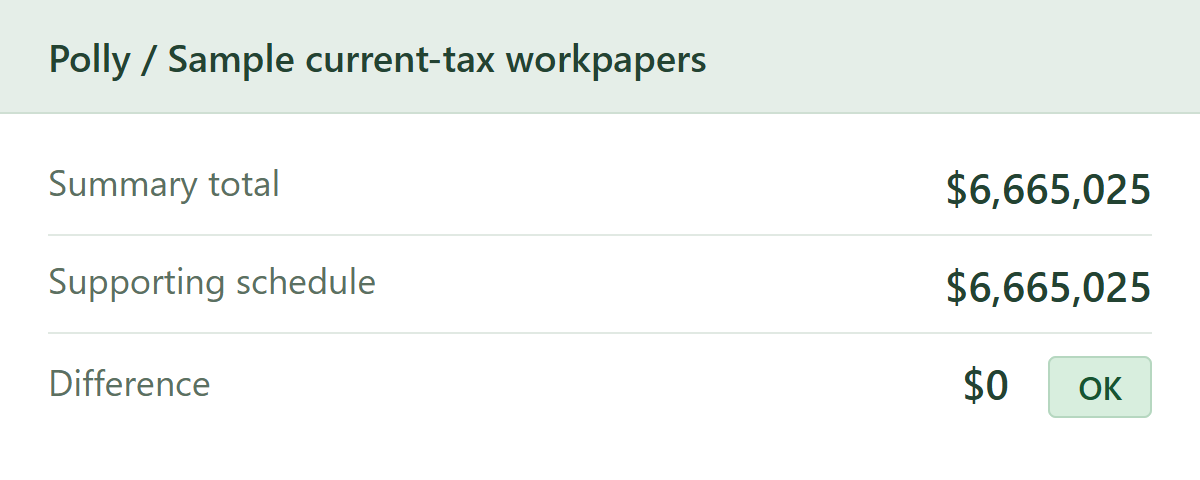
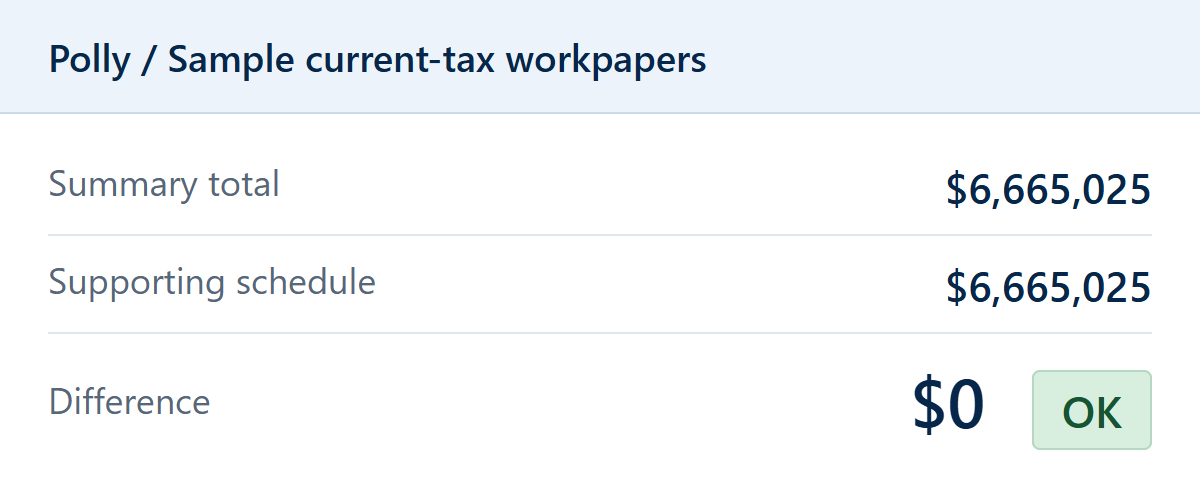
Restore Polaris brand colors and unify homepage typography

diff --git a/design-v2.css b/design-v2.css
@@ -1,8 +1,32 @@
-:root{--ink:#202b2a;--muted:#5f6d6a;--green:#12624f;--line:#dce4df;--soft:#f3f6f4;--blue:#235a7a}*{box-sizing:border-box;letter-spacing:0}html{scroll-behavior:smooth;scroll-padding-top:28px}body{margin:0;color:var(--ink);background:#fff;font-family:'Segoe UI',Arial,sans-serif;font-size:16px;line-height:1.65}h1,h2,h3,h4,p{margin:0 0 18px;overflow-wrap:break-word}h1,h2,h3,h4{line-height:1.2;font-weight:600}h2{font-size:34px}h3{font-size:23px}a{color:inherit;text-underline-offset:5px}button,input,textarea,select{font:inherit}button,a{touch-action:manipulation}a:focus-visible,button:focus-visible,summary:focus-visible{outline:3px solid #c36b48;outline-offset:5px}.wrap{width:100%;max-width:1200px;margin:auto;padding-left:40px;padding-right:40px}.header{height:102px;display:flex;align-items:center;justify-content:space-between;gap:24px}.logo{width:208px;height:auto;display:block}.nav{display:flex;align-items:center;gap:30px;font-size:14px}.nav a{text-decoration:none}.nav a:not(.button):hover{color:var(--green)}.button{display:inline-flex;align-items:center;justify-content:center;gap:14px;min-height:48px;padding:11px 25px;border-radius:999px;border:1px solid var(--green);background:var(--green);color:white;font-size:15px;font-weight:600;text-decoration:none;cursor:pointer;transition:background .18s,box-shadow .18s}.button:hover{background:#0b4d3d;box-shadow:0 4px 15px #174e3820}.button::after{content:'\2192';font-size:19px;font-weight:400;line-height:1}.button.secondary{background:transparent;border-color:transparent;color:var(--ink);padding-left:10px;padding-right:10px}.button.secondary:hover{box-shadow:none;color:var(--green)}.actions{display:flex;align-items:center;gap:22px;flex-wrap:wrap}.eyebrow{font-size:12px;font-weight:700;text-transform:uppercase;color:var(--green);margin-bottom:18px}.hero{max-width:none;padding:35px 24px 0;text-align:center;background:#f7f9f7;border-top:1px solid #edf0ed;overflow:hidden}.hero h1{font-size:62px;font-weight:600;margin-bottom:12px}.hero h1 span{font-size:22px;display:inline-block;font-weight:400;color:var(--muted);vertical-align:middle;margin-left:8px}.hero .tagline{font-family:Georgia,'Times New Roman',serif;font-size:39px;font-weight:400;line-height:1.2;margin-bottom:20px}.hero .tagline em{color:var(--green);font-weight:400}.hero .intro{font-size:17px;color:var(--muted);max-width:690px;margin:0 auto 24px;line-height:1.65}.hero .actions{justify-content:center}.hero .sub{font-size:12px;color:var(--muted);margin:14px 0 27px}.hero-product{max-width:1040px;margin:0 auto;position:relative}.hero-product img{display:block;width:100%;height:auto;border:1px solid #cddbd3;border-bottom:0;border-radius:8px 8px 0 0;box-shadow:0 5px 35px #1b3f3010}.hero-product figcaption{font-size:11px;color:var(--muted);padding:8px}.benefits{background:white;border-bottom:1px solid var(--line)}.benefit-grid{display:grid;grid-template-columns:repeat(3,minmax(0,1fr));gap:44px;padding-top:40px;padding-bottom:40px}.benefit-grid>div{border-left:1px solid var(--line);padding-left:26px}.benefit-grid>div:first-child{border:0;padding-left:0}.benefit-grid h2{font-size:20px;margin-bottom:9px}.benefit-grid p{font-size:14px;color:var(--muted);margin:0}.section{padding-top:82px;padding-bottom:82px}.section-head{max-width:100%;margin-bottom:36px}.section-head>p:not(.eyebrow){max-width:680px;color:var(--muted)}.section-head h2{font-size:32px}.columns{display:grid;grid-template-columns:1fr 1fr;gap:70px}.audience{border-top:2px solid var(--green);padding-top:26px}.audience:nth-child(2){border-color:#b36b50}.audience p{color:var(--muted);font-size:15px}.audience ul{padding-left:19px;margin:0}.audience li{font-size:15px;margin:12px 0;padding-left:5px}.audience li::marker{color:#8baca0}.fine{font-size:12px;line-height:1.65;color:var(--muted)}.band{background:var(--soft)}#polly{background:#fff;border-bottom:1px solid var(--line)}#polly>.section{padding-top:70px}.steps{display:grid;grid-template-columns:repeat(3,minmax(0,1fr));gap:48px;padding-top:3px;padding-bottom:42px}.step-label{color:var(--green);font-size:12px;font-weight:700;margin-bottom:16px}.steps h3{font-size:20px;max-width:270px}.steps p:not(.step-label){font-size:14px;color:var(--muted)}.verification-message{display:grid;grid-template-columns:1fr 1.55fr;gap:55px;border-top:1px solid var(--line);padding-top:38px;margin-top:0!important;max-width:none!important;margin-bottom:32px}.verification-message h3{font-size:29px;max-width:290px}.verification-message p{font-size:15px;color:var(--muted);margin:0}.output{border:1px solid #c7d9cd;border-radius:8px;overflow:hidden;background:white}.output-top{padding:14px 24px;display:flex;align-items:center;justify-content:space-between;gap:15px;background:#e8f1eb;font-size:13px}.output-top strong{font-weight:600}.trace-intro{padding:30px 32px 8px}.trace-intro h3{font-size:23px}.trace-intro p{font-size:14px;color:var(--muted);max-width:800px}.reconciliation{display:grid;grid-template-columns:1fr 44px 1fr 44px .8fr;align-items:center;padding:8px 32px 30px;gap:10px}.recon-block{min-width:0}.recon-block .label{font-size:13px;color:var(--muted);margin-bottom:5px}.recon-block .value{font-size:32px;font-weight:600;line-height:1.2;margin-bottom:10px;font-variant-numeric:tabular-nums}.recon-block .detail{font-size:12px;color:var(--muted);margin:0}.recon-symbol{color:#91a49b;font-size:24px;text-align:center}.ok-badge{display:inline-flex;align-items:center;gap:6px;background:#dcefe2;color:#155333;border:1px solid #b6d7c1;border-radius:5px;padding:5px 10px;font-size:13px;font-weight:700;vertical-align:middle;margin-left:8px}.trace-details{border-top:1px solid var(--line);margin:0 32px;padding:17px 0}.trace-details summary{font-size:13px;color:var(--green);cursor:pointer;font-weight:600}.table-wrap{overflow:auto}table{border-collapse:collapse;width:100%;font-size:12px;margin-top:16px;table-layout:fixed}th,td{text-align:left;padding:12px;border-bottom:1px solid var(--line);vertical-align:top;overflow-wrap:anywhere}th{background:var(--soft);font-weight:600}th:first-child{width:38%}code{font-family:Consolas,monospace;font-size:12px}.trace-note{padding:2px 32px 20px;margin:0;font-size:11px;max-width:950px}.control-threshold{margin:0;padding:0 32px 16px;font-size:11px;color:var(--muted)}#teams .section-head{max-width:720px}#offerings{background:#f2f5f3}.offerings{display:block}.offering{border:0;border-top:1px solid #cfdad2;border-radius:0;padding:32px 0;display:grid;grid-template-columns:280px 1fr;gap:40px;background:none}.offering:first-child{padding-top:25px}.offer-title h3{font-size:25px}.offer-title .eyebrow{font-size:11px}.offering p{font-size:15px;color:var(--muted);max-width:700px}.offering .fine{font-size:12px;max-width:730px}.offering a{font-size:14px;font-weight:600;color:var(--green);display:inline-block;text-decoration:none;border-bottom:1px solid #82a494;padding-bottom:3px}.offering a:hover{border-color:var(--green)}.included-list{display:grid;grid-template-columns:1fr 1fr;gap:8px 24px;list-style:none;padding:0;margin:14px 0 18px}.included-list li{font-size:14px;padding-left:17px;position:relative}.included-list li::before{content:'+';position:absolute;left:0;color:var(--green)}.offering h4{font-size:13px!important;color:var(--ink)}.pilot-band{background:#185c4c;color:white}.pilot{display:flex;align-items:center;justify-content:space-between;gap:50px;padding-top:44px;padding-bottom:44px}.pilot h2{font-size:27px;max-width:620px}.pilot p{max-width:720px;font-size:14px;margin:0;color:#e1ede7}.pilot .eyebrow{color:#b9d7c6;font-size:11px;margin-bottom:10px!important}.pilot .fine{color:#c1d7cb;font-size:11px}.pilot .button{background:white;border-color:white;color:#174e3d;flex-shrink:0}.founder{display:grid;grid-template-columns:250px 1fr;gap:72px;align-items:center;max-width:1050px}.founder img{width:250px;aspect-ratio:4/5;object-fit:cover;border-radius:4px}.founder h2{font-size:32px}.founder p{color:var(--muted);font-size:16px;max-width:650px}.founder a{font-size:14px;color:var(--green);font-weight:600}#about{background:white}.faq{max-width:1000px;border-top:1px solid var(--line)}.faq h2{font-size:32px}.faq details{border-bottom:1px solid var(--line);padding:19px 0}.faq summary{font-size:16px;font-weight:500;cursor:pointer;list-style:none;display:flex;align-items:center;justify-content:space-between;gap:20px}.faq summary::after{content:'+';font-size:23px;color:var(--green);font-weight:300}.faq details[open] summary::after{content:'\2212'}.faq details p{font-size:14px;max-width:760px;color:var(--muted);margin:16px 0 4px}.contact{display:grid;grid-template-columns:1fr 1fr;gap:90px}.contact h2{font-family:Georgia,'Times New Roman',serif;font-weight:400;font-size:38px;max-width:430px}.contact p{font-size:15px;color:var(--muted)}.contact .fine{font-size:12px}.contact form{display:grid;grid-template-columns:1fr 1fr;gap:20px}.contact label{font-size:12px;font-weight:600;display:grid;gap:6px}.contact label:nth-of-type(n+3),.contact form>.fine,.contact form>.status{grid-column:1/-1}input,textarea,select{width:100%;min-width:0;border:0;border-bottom:1px solid #aabdb0;background:#fff;border-radius:3px 3px 0 0;padding:12px;color:var(--ink);font-size:14px}input:focus,textarea:focus,select:focus{outline:2px solid #12624f;outline-offset:2px}textarea{resize:vertical}.contact form .button{justify-self:start}.status{font-size:13px;margin:0}.privacy-wrap{border-top:1px solid var(--line);padding-top:25px;padding-bottom:25px}.privacy-wrap summary{font-size:13px;color:var(--muted);cursor:pointer}.privacy-wrap h2{font-size:23px;margin-top:24px}.privacy-wrap p{font-size:13px;max-width:800px;color:var(--muted)}footer{padding:28px 0;border-top:1px solid var(--line)}.footer{display:flex;align-items:center;justify-content:space-between;gap:20px;font-size:12px;color:var(--muted)}.footer strong{font-size:14px;color:var(--ink)}.preview-note{font-size:11px;background:#edf3ef;text-align:center;padding:5px 12px;color:#526d5c}.skip{position:absolute;top:-100px}.skip:focus{top:0;background:white;padding:15px;z-index:10}
-@media(max-width:1000px){.wrap{padding-left:28px;padding-right:28px}.nav{gap:20px}.hero h1{font-size:54px}.section-head h2{font-size:28px}.columns{gap:40px}.steps{gap:28px}.offering{grid-template-columns:230px 1fr;gap:30px}.contact{gap:45px}.recon-block .value{font-size:27px}.verification-message{gap:30px}.reconciliation{grid-template-columns:1fr 25px 1fr 25px .8fr}.founder{gap:45px}.benefit-grid{gap:20px}.benefit-grid h2{font-size:18px}}
-@media(max-width:760px){.header{height:84px}.nav>a:not(.button){display:none}.logo{width:178px}.nav .button{min-height:40px;padding:8px 18px;font-size:13px}.hero{padding-top:34px}.hero h1{font-size:48px}.hero h1 span{font-size:18px}.hero .tagline{font-size:31px}.hero .intro{font-size:16px}.hero .sub{font-size:11px}.hero-product{max-width:600px}.section{padding-top:55px;padding-bottom:55px}.benefit-grid{grid-template-columns:1fr;padding-top:30px;padding-bottom:30px;gap:20px}.benefit-grid>div{border:0;border-bottom:1px solid var(--line);padding:0 0 18px;display:grid;grid-template-columns:180px 1fr;gap:18px}.benefit-grid>div:first-child{border-bottom:1px solid var(--line)}.benefit-grid>div:last-child{border:0;padding-bottom:0}.benefit-grid h2{font-size:18px}.benefit-grid p{font-size:13px}.columns,.verification-message,.contact{grid-template-columns:1fr;gap:30px}.steps{grid-template-columns:1fr;gap:15px}.steps>div{display:grid;grid-template-columns:110px 1fr;gap:0 20px;border-bottom:1px solid var(--line);padding:10px 0 15px}.steps h3{max-width:none;font-size:19px}.steps p:not(.step-label){grid-column:2}.steps .step-label{grid-row:1/3}.verification-message h3{max-width:none;font-size:27px;margin:0}.reconciliation{grid-template-columns:1fr;padding:5px 24px 25px;gap:15px}.recon-symbol{display:none}.recon-block{display:grid;grid-template-columns:1fr auto;gap:4px 20px;padding:13px 0;border-bottom:1px solid var(--line)}.recon-block .detail{grid-column:1/-1}.recon-block .value{font-size:25px;margin:0}.recon-block .label{align-self:center;margin:0}.trace-intro{padding:25px 24px 8px}.trace-intro h3{font-size:21px}.trace-details{margin:0 24px}.trace-note,.control-threshold{padding-left:24px;padding-right:24px}.output-top{align-items:flex-start;flex-direction:column;gap:4px;padding:12px 24px}.offering{grid-template-columns:1fr;gap:6px}.offer-title{display:flex;align-items:baseline;justify-content:space-between;gap:20px}.offer-title .eyebrow{order:2;text-align:right}.offer-title h3{font-size:24px}.included-list{gap:8px 20px}.pilot{align-items:flex-start;flex-direction:column;gap:24px}.pilot h2{font-size:26px}.founder{grid-template-columns:160px 1fr;gap:30px}.founder img{width:160px}.founder h2{font-size:26px}.founder p{font-size:14px}.contact h2{max-width:540px;font-size:34px}.contact form{gap:16px}.faq h2{font-size:28px}.footer{flex-wrap:wrap}}
-@media(max-width:440px){.wrap{padding-left:22px;padding-right:22px}.header{gap:12px}.logo{width:155px}.nav .button{padding:8px 14px;gap:8px}.hero{padding-left:20px;padding-right:20px;padding-top:24px}.hero h1{font-size:43px}.hero h1 span{display:block;margin:8px 0 0;font-size:17px}.hero .tagline{font-size:28px;max-width:300px;margin:0 auto 17px}.hero .intro{font-size:15px}.hero .eyebrow{font-size:10px}.hero .actions{gap:15px}.hero .button{font-size:13px;padding:10px 18px;min-height:44px}.hero .button.secondary{padding:10px 8px}.hero .sub{max-width:260px;margin:13px auto 22px}.hero-product{margin-left:-8px;margin-right:-8px}.hero-product figcaption{font-size:9px}.benefit-grid>div{grid-template-columns:1fr;gap:1px}.benefit-grid h2{margin-bottom:6px}.section-head h2{font-size:27px}.steps>div{grid-template-columns:1fr;gap:0}.steps .step-label{grid-row:auto}.steps p:not(.step-label){grid-column:auto}.steps .step-label{margin-bottom:10px}.recon-block{grid-template-columns:1fr}.recon-block .value{font-size:29px}.trace-intro h3{font-size:20px}.trace-details{margin:0 20px}.trace-details td,.trace-details th{padding:10px 5px;font-size:11px}.trace-details code{font-size:10px}.included-list{grid-template-columns:1fr}.offer-title{display:block}.offer-title .eyebrow{text-align:left}.founder{grid-template-columns:1fr;gap:24px}.founder img{width:150px}.founder p{font-size:15px}.contact form{grid-template-columns:1fr}.contact label{grid-column:1}.contact h2{font-size:31px}.footer{gap:12px}.output-top{padding:12px 20px}.trace-intro{padding:23px 20px 8px}.reconciliation{padding:0 20px 20px}}
-.menu-toggle{display:none}.mobile-nav[hidden]{display:none}.mobile-nav{padding:15px 28px 24px;border-bottom:1px solid var(--line);background:white}.mobile-nav a{display:block;padding:10px 0;text-decoration:none;font-size:15px}.contact label{grid-column:auto!important}.contact label:last-of-type{grid-column:1/-1!important}
+:root{--ink:#06264a;--muted:#566779;--green:#06264a;--line:#dce3eb;--soft:#f5f7fa;--blue:#2f7dd3}*{box-sizing:border-box;letter-spacing:0}html{scroll-behavior:smooth;scroll-padding-top:28px}body{margin:0;color:var(--ink);background:#fff;font-family:'Segoe UI',Arial,sans-serif;font-size:inherit;line-height:1.65}h1,h2,h3,h4,p{margin:0 0 18px;overflow-wrap:break-word}h1,h2,h3,h4{line-height:1.2;font-weight:600}h2{font-size:inherit}h3{font-size:inherit}a{color:inherit;text-underline-offset:5px}button,input,textarea,select{font:inherit}button,a{touch-action:manipulation}a:focus-visible,button:focus-visible,summary:focus-visible{outline:3px solid #b9954d;outline-offset:5px}.wrap{width:100%;max-width:1200px;margin:auto;padding-left:40px;padding-right:40px}.header{height:102px;display:flex;align-items:center;justify-content:space-between;gap:24px}.logo{width:208px;height:auto;display:block}.nav{display:flex;align-items:center;gap:30px;font-size:inherit}.nav a{text-decoration:none}.nav a:not(.button):hover{color:var(--green)}.button{display:inline-flex;align-items:center;justify-content:center;gap:14px;min-height:48px;padding:11px 25px;border-radius:999px;border:1px solid var(--green);background:var(--green);color:white;font-size:inherit;font-weight:600;text-decoration:none;cursor:pointer;transition:background .18s,box-shadow .18s}.button:hover{background:#174f83;box-shadow:0 4px 15px #06264a20}.button::after{content:'\2192';font-size:inherit;font-weight:400;line-height:1}.button.secondary{background:transparent;border-color:transparent;color:var(--ink);padding-left:10px;padding-right:10px}.button.secondary:hover{box-shadow:none;color:var(--green)}.actions{display:flex;align-items:center;gap:22px;flex-wrap:wrap}.eyebrow{font-size:inherit;font-weight:700;text-transform:uppercase;color:var(--green);margin-bottom:18px}.hero{max-width:none;padding:35px 24px 0;text-align:center;background:#ffffff;border-top:1px solid #e4eaf1;overflow:hidden}.hero h1{font-size:inherit;font-weight:600;margin-bottom:12px}.hero h1 span{font-size:inherit;display:inline-block;font-weight:400;color:var(--muted);vertical-align:middle;margin-left:8px}.hero .tagline{font-family:'Segoe UI',Arial,sans-serif;font-size:inherit;font-weight:400;line-height:1.2;margin-bottom:20px}.hero .tagline em{color:var(--green);font-weight:400}.hero .intro{font-size:inherit;color:var(--muted);max-width:690px;margin:0 auto 24px;line-height:1.65}.hero .actions{justify-content:center}.hero .sub{font-size:inherit;color:var(--muted);margin:14px 0 27px}.hero-product{max-width:1040px;margin:0 auto;position:relative}.hero-product img{display:block;width:100%;height:auto;border:1px solid #ccd9e7;border-bottom:0;border-radius:8px 8px 0 0;box-shadow:0 5px 35px #06264a12}.hero-product figcaption{font-size:inherit;color:var(--muted);padding:8px}.benefits{background:white;border-bottom:1px solid var(--line)}.benefit-grid{display:grid;grid-template-columns:repeat(3,minmax(0,1fr));gap:44px;padding-top:40px;padding-bottom:40px}.benefit-grid>div{border-left:1px solid var(--line);padding-left:26px}.benefit-grid>div:first-child{border:0;padding-left:0}.benefit-grid h2{font-size:inherit;margin-bottom:9px}.benefit-grid p{font-size:inherit;color:var(--muted);margin:0}.section{padding-top:82px;padding-bottom:82px}.section-head{max-width:100%;margin-bottom:36px}.section-head>p:not(.eyebrow){max-width:680px;color:var(--muted)}.section-head h2{font-size:inherit}.columns{display:grid;grid-template-columns:1fr 1fr;gap:70px}.audience{border-top:2px solid var(--green);padding-top:26px}.audience:nth-child(2){border-color:#b9954d}.audience p{color:var(--muted);font-size:inherit}.audience ul{padding-left:19px;margin:0}.audience li{font-size:inherit;margin:12px 0;padding-left:5px}.audience li::marker{color:#b9954d}.fine{font-size:inherit;line-height:1.65;color:var(--muted)}.band{background:var(--soft)}#polly{background:#fff;border-bottom:1px solid var(--line)}#polly>.section{padding-top:70px}.steps{display:grid;grid-template-columns:repeat(3,minmax(0,1fr));gap:48px;padding-top:3px;padding-bottom:42px}.step-label{color:var(--green);font-size:inherit;font-weight:700;margin-bottom:16px}.steps h3{font-size:inherit;max-width:270px}.steps p:not(.step-label){font-size:inherit;color:var(--muted)}.verification-message{display:grid;grid-template-columns:1fr 1.55fr;gap:55px;border-top:1px solid var(--line);padding-top:38px;margin-top:0!important;max-width:none!important;margin-bottom:32px}.verification-message h3{font-size:inherit;max-width:290px}.verification-message p{font-size:inherit;color:var(--muted);margin:0}.output{border:1px solid #cbd8e6;border-radius:8px;overflow:hidden;background:white}.output-top{padding:14px 24px;display:flex;align-items:center;justify-content:space-between;gap:15px;background:#edf3fa;font-size:inherit}.output-top strong{font-weight:600}.trace-intro{padding:30px 32px 8px}.trace-intro h3{font-size:inherit}.trace-intro p{font-size:inherit;color:var(--muted);max-width:800px}.reconciliation{display:grid;grid-template-columns:1fr 44px 1fr 44px .8fr;align-items:center;padding:8px 32px 30px;gap:10px}.recon-block{min-width:0}.recon-block .label{font-size:inherit;color:var(--muted);margin-bottom:5px}.recon-block .value{font-size:inherit;font-weight:600;line-height:1.2;margin-bottom:10px;font-variant-numeric:tabular-nums}.recon-block .detail{font-size:inherit;color:var(--muted);margin:0}.recon-symbol{color:#8599b0;font-size:inherit;text-align:center}.ok-badge{display:inline-flex;align-items:center;gap:6px;background:#dcefe2;color:#155333;border:1px solid #b6d7c1;border-radius:5px;padding:5px 10px;font-size:inherit;font-weight:700;vertical-align:middle;margin-left:8px}.trace-details{border-top:1px solid var(--line);margin:0 32px;padding:17px 0}.trace-details summary{font-size:inherit;color:var(--green);cursor:pointer;font-weight:600}.table-wrap{overflow:auto}table{border-collapse:collapse;width:100%;font-size:inherit;margin-top:16px;table-layout:fixed}th,td{text-align:left;padding:12px;border-bottom:1px solid var(--line);vertical-align:top;overflow-wrap:anywhere}th{background:var(--soft);font-weight:600}th:first-child{width:38%}code{font-family:Consolas,monospace;font-size:inherit}.trace-note{padding:2px 32px 20px;margin:0;font-size:inherit;max-width:950px}.control-threshold{margin:0;padding:0 32px 16px;font-size:inherit;color:var(--muted)}#teams .section-head{max-width:720px}#offerings{background:#f5f7fa}.offerings{display:block}.offering{border:0;border-top:1px solid #d4dfeb;border-radius:0;padding:32px 0;display:grid;grid-template-columns:280px 1fr;gap:40px;background:none}.offering:first-child{padding-top:25px}.offer-title h3{font-size:inherit}.offer-title .eyebrow{font-size:inherit}.offering p{font-size:inherit;color:var(--muted);max-width:700px}.offering .fine{font-size:inherit;max-width:730px}.offering a{font-size:inherit;font-weight:600;color:var(--green);display:inline-block;text-decoration:none;border-bottom:1px solid #7aa3d1;padding-bottom:3px}.offering a:hover{border-color:var(--green)}.included-list{display:grid;grid-template-columns:1fr 1fr;gap:8px 24px;list-style:none;padding:0;margin:14px 0 18px}.included-list li{font-size:inherit;padding-left:17px;position:relative}.included-list li::before{content:'+';position:absolute;left:0;color:var(--green)}.offering h4{font-size:inherit!important;color:var(--ink)}.pilot-band{background:#06264a;color:white}.pilot{display:flex;align-items:center;justify-content:space-between;gap:50px;padding-top:44px;padding-bottom:44px}.pilot h2{font-size:inherit;max-width:620px}.pilot p{max-width:720px;font-size:inherit;margin:0;color:#e2eaf4}.pilot .eyebrow{color:#dbc795;font-size:inherit;margin-bottom:10px!important}.pilot .fine{color:#c3d2e4;font-size:inherit}.pilot .button{background:white;border-color:white;color:#06264a;flex-shrink:0}.founder{display:grid;grid-template-columns:250px 1fr;gap:72px;align-items:center;max-width:1050px}.founder img{width:250px;aspect-ratio:4/5;object-fit:cover;border-radius:4px}.founder h2{font-size:inherit}.founder p{color:var(--muted);font-size:inherit;max-width:650px}.founder a{font-size:inherit;color:var(--green);font-weight:600}#about{background:white}.faq{max-width:1000px;border-top:1px solid var(--line)}.faq h2{font-size:inherit}.faq details{border-bottom:1px solid var(--line);padding:19px 0}.faq summary{font-size:inherit;font-weight:500;cursor:pointer;list-style:none;display:flex;align-items:center;justify-content:space-between;gap:20px}.faq summary::after{content:'+';font-size:inherit;color:var(--green);font-weight:300}.faq details[open] summary::after{content:'\2212'}.faq details p{font-size:inherit;max-width:760px;color:var(--muted);margin:16px 0 4px}.contact{display:grid;grid-template-columns:1fr 1fr;gap:90px}.contact h2{font-family:'Segoe UI',Arial,sans-serif;font-weight:400;font-size:inherit;max-width:430px}.contact p{font-size:inherit;color:var(--muted)}.contact .fine{font-size:inherit}.contact form{display:grid;grid-template-columns:1fr 1fr;gap:20px}.contact label{font-size:inherit;font-weight:600;display:grid;gap:6px}.contact label:nth-of-type(n+3),.contact form>.fine,.contact form>.status{grid-column:1/-1}input,textarea,select{width:100%;min-width:0;border:0;border-bottom:1px solid #b4c5d8;background:#fff;border-radius:3px 3px 0 0;padding:12px;color:var(--ink);font-size:inherit}input:focus,textarea:focus,select:focus{outline:2px solid #06264a;outline-offset:2px}textarea{resize:vertical}.contact form .button{justify-self:start}.status{font-size:inherit;margin:0}.privacy-wrap{border-top:1px solid var(--line);padding-top:25px;padding-bottom:25px}.privacy-wrap summary{font-size:inherit;color:var(--muted);cursor:pointer}.privacy-wrap h2{font-size:inherit;margin-top:24px}.privacy-wrap p{font-size:inherit;max-width:800px;color:var(--muted)}footer{padding:28px 0;border-top:1px solid var(--line)}.footer{display:flex;align-items:center;justify-content:space-between;gap:20px;font-size:inherit;color:var(--muted)}.footer strong{font-size:inherit;color:var(--ink)}.preview-note{font-size:inherit;background:#eef3f9;text-align:center;padding:5px 12px;color:#50657d}.skip{position:absolute;top:-100px}.skip:focus{top:0;background:white;padding:15px;z-index:10}
+@media(max-width:1000px){.wrap{padding-left:28px;padding-right:28px}.nav{gap:20px}.hero h1{font-size:inherit}.section-head h2{font-size:inherit}.columns{gap:40px}.steps{gap:28px}.offering{grid-template-columns:230px 1fr;gap:30px}.contact{gap:45px}.recon-block .value{font-size:inherit}.verification-message{gap:30px}.reconciliation{grid-template-columns:1fr 25px 1fr 25px .8fr}.founder{gap:45px}.benefit-grid{gap:20px}.benefit-grid h2{font-size:inherit}}
+@media(max-width:760px){.header{height:84px}.nav>a:not(.button){display:none}.logo{width:178px}.nav .button{min-height:40px;padding:8px 18px;font-size:inherit}.hero{padding-top:34px}.hero h1{font-size:inherit}.hero h1 span{font-size:inherit}.hero .tagline{font-size:inherit}.hero .intro{font-size:inherit}.hero .sub{font-size:inherit}.hero-product{max-width:600px}.section{padding-top:55px;padding-bottom:55px}.benefit-grid{grid-template-columns:1fr;padding-top:30px;padding-bottom:30px;gap:20px}.benefit-grid>div{border:0;border-bottom:1px solid var(--line);padding:0 0 18px;display:grid;grid-template-columns:180px 1fr;gap:18px}.benefit-grid>div:first-child{border-bottom:1px solid var(--line)}.benefit-grid>div:last-child{border:0;padding-bottom:0}.benefit-grid h2{font-size:inherit}.benefit-grid p{font-size:inherit}.columns,.verification-message,.contact{grid-template-columns:1fr;gap:30px}.steps{grid-template-columns:1fr;gap:15px}.steps>div{display:grid;grid-template-columns:110px 1fr;gap:0 20px;border-bottom:1px solid var(--line);padding:10px 0 15px}.steps h3{max-width:none;font-size:inherit}.steps p:not(.step-label){grid-column:2}.steps .step-label{grid-row:1/3}.verification-message h3{max-width:none;font-size:inherit;margin:0}.reconciliation{grid-template-columns:1fr;padding:5px 24px 25px;gap:15px}.recon-symbol{display:none}.recon-block{display:grid;grid-template-columns:1fr auto;gap:4px 20px;padding:13px 0;border-bottom:1px solid var(--line)}.recon-block .detail{grid-column:1/-1}.recon-block .value{font-size:inherit;margin:0}.recon-block .label{align-self:center;margin:0}.trace-intro{padding:25px 24px 8px}.trace-intro h3{font-size:inherit}.trace-details{margin:0 24px}.trace-note,.control-threshold{padding-left:24px;padding-right:24px}.output-top{align-items:flex-start;flex-direction:column;gap:4px;padding:12px 24px}.offering{grid-template-columns:1fr;gap:6px}.offer-title{display:flex;align-items:baseline;justify-content:space-between;gap:20px}.offer-title .eyebrow{order:2;text-align:right}.offer-title h3{font-size:inherit}.included-list{gap:8px 20px}.pilot{align-items:flex-start;flex-direction:column;gap:24px}.pilot h2{font-size:inherit}.founder{grid-template-columns:160px 1fr;gap:30px}.founder img{width:160px}.founder h2{font-size:inherit}.founder p{font-size:inherit}.contact h2{max-width:540px;font-size:inherit}.contact form{gap:16px}.faq h2{font-size:inherit}.footer{flex-wrap:wrap}}
+@media(max-width:440px){.wrap{padding-left:22px;padding-right:22px}.header{gap:12px}.logo{width:155px}.nav .button{padding:8px 14px;gap:8px}.hero{padding-left:20px;padding-right:20px;padding-top:24px}.hero h1{font-size:inherit}.hero h1 span{display:block;margin:8px 0 0;font-size:inherit}.hero .tagline{font-size:inherit;max-width:300px;margin:0 auto 17px}.hero .intro{font-size:inherit}.hero .eyebrow{font-size:inherit}.hero .actions{gap:15px}.hero .button{font-size:inherit;padding:10px 18px;min-height:44px}.hero .button.secondary{padding:10px 8px}.hero .sub{max-width:260px;margin:13px auto 22px}.hero-product{margin-left:-8px;margin-right:-8px}.hero-product figcaption{font-size:inherit}.benefit-grid>div{grid-template-columns:1fr;gap:1px}.benefit-grid h2{margin-bottom:6px}.section-head h2{font-size:inherit}.steps>div{grid-template-columns:1fr;gap:0}.steps .step-label{grid-row:auto}.steps p:not(.step-label){grid-column:auto}.steps .step-label{margin-bottom:10px}.recon-block{grid-template-columns:1fr}.recon-block .value{font-size:inherit}.trace-intro h3{font-size:inherit}.trace-details{margin:0 20px}.trace-details td,.trace-details th{padding:10px 5px;font-size:inherit}.trace-details code{font-size:inherit}.included-list{grid-template-columns:1fr}.offer-title{display:block}.offer-title .eyebrow{text-align:left}.founder{grid-template-columns:1fr;gap:24px}.founder img{width:150px}.founder p{font-size:inherit}.contact form{grid-template-columns:1fr}.contact label{grid-column:1}.contact h2{font-size:inherit}.footer{gap:12px}.output-top{padding:12px 20px}.trace-intro{padding:23px 20px 8px}.reconciliation{padding:0 20px 20px}}
+.menu-toggle{display:none}.mobile-nav[hidden]{display:none}.mobile-nav{padding:15px 28px 24px;border-bottom:1px solid var(--line);background:white}.mobile-nav a{display:block;padding:10px 0;text-decoration:none;font-size:inherit}.contact label{grid-column:auto!important}.contact label:last-of-type{grid-column:1/-1!important}
 @media(max-width:760px){.menu-toggle{display:flex;flex-direction:column;justify-content:center;gap:5px;width:42px;height:42px;border:1px solid var(--line);border-radius:50%;background:white;padding:11px;cursor:pointer;margin-left:auto}.menu-toggle span{height:1.5px;width:18px;background:var(--ink);display:block}.header{gap:12px}.nav{gap:0}.contact label{grid-column:auto!important}.contact label:last-of-type{grid-column:1/-1!important}}
 @media(max-width:440px){.contact label{grid-column:1/-1!important}.logo{width:140px}.header{gap:8px}.nav .button{padding:8px 12px}.menu-toggle{width:38px;height:38px;padding:9px;flex-shrink:0}}
 @media(prefers-reduced-motion:reduce){html{scroll-behavior:auto}.button{transition:none}}
+/* Polaris identity: navy and blue, with gold highlights; green is reserved for check status. */
+#polly .section-head>.eyebrow{font-size:inherit;text-transform:none;font-weight:600;margin-bottom:14px}
+#polly .steps .step-label{font-size:inherit;font-weight:600;line-height:1.4;margin-bottom:14px}
+h1,h2,h3,h4{color:#06264a}.hero{padding-top:30px}.hero h1{font-size:inherit;font-weight:700}.hero h1 span{font-size:inherit;color:#566779}.hero .tagline{font-size:inherit;font-weight:600}.hero .tagline em{font-style:normal;font-weight:600;color:#235f9e}.hero .intro{max-width:660px;font-size:inherit}.hero .eyebrow{color:#54697e}.hero .eyebrow::before{content:'';display:inline-block;width:26px;height:2px;background:#b9954d;vertical-align:middle;margin-right:10px}.eyebrow,.step-label{color:#235f9e}.hero-product{max-width:990px}.hero-product img{border-color:#cad8e8}.section{padding-top:64px;padding-bottom:64px}.section-head h2{font-size:inherit}.contact h2{font-size:inherit;font-weight:600}.contact a[href^="mailto:"],.contact a[href^="tel:"],.founder a{color:#235f9e;text-decoration:none}.contact a[href^="mailto:"]:hover,.contact a[href^="tel:"]:hover,.founder a:hover,.contact a[href^="mailto:"]:focus-visible,.contact a[href^="tel:"]:focus-visible,.founder a:focus-visible{text-decoration:underline}.pilot h2{color:#fff}.pilot .button:hover{background:#e9f1fb}.audience{border-top-color:#2f7dd3}.audience:nth-child(2){border-top-color:#b9954d}.button.secondary{color:#235f9e}.button.secondary:hover{color:#06264a}.verification-message h3{font-size:inherit}.benefit-grid{padding-top:32px;padding-bottom:32px}.offering a{border-bottom:none}.offering a:hover{text-decoration:underline}
+@media(max-width:760px){.hero h1{font-size:inherit}.hero .tagline{font-size:inherit}.section{padding-top:48px;padding-bottom:48px}.section-head h2{font-size:inherit}.contact h2{font-size:inherit}}
+@media(max-width:440px){.hero h1{font-size:inherit}.hero h1 span{font-size:inherit}.hero .tagline{font-size:inherit}.hero .intro{font-size:inherit}.hero-product{margin-left:0;margin-right:0}}
+/* Shared type scale, consistent across desktop and mobile. */
+body{font-size:16px}
+.hero h1{font-size:48px}
+.hero .tagline{font-size:32px}
+h2,.section-head h2,#polly .section-head h2,.founder h2,.faq h2,.contact h2,.pilot h2,.privacy-wrap h2{font-size:30px}
+h3,.steps h3,.offer-title h3,.trace-intro h3,.verification-message h3,.benefit-grid h2{font-size:20px}
+.hero .intro,.founder p,.hero h1 span{font-size:17px}
+p,.steps p:not(.step-label),.benefit-grid p,.audience p,.offering p,.faq details p,.contact p,.pilot p,.section-head>p:not(.eyebrow),.trace-intro p,.verification-message p,.faq summary{font-size:16px}
+li,.included-list li,.audience li,.nav,.mobile-nav a,.button,.hero .button,.nav .button,.contact label,input,textarea,select,.offering a,.founder a,.trace-details summary,.recon-block .label,.recon-block .detail,.output-top,.footer,.status,.privacy-wrap summary,.privacy-wrap p{font-size:14px}
+.eyebrow,.offer-title .eyebrow,.pilot .eyebrow,.hero .eyebrow{font-size:14px}
+#polly .section-head>.eyebrow,#polly .steps .step-label{font-size:20px}
+.fine,.offering .fine,.contact .fine,.pilot .fine,.trace-note,.control-threshold,.hero .sub,.hero-product figcaption,.preview-note,.trace-details code,.trace-details td,.trace-details th,code,table{font-size:12px}
+.offering h4{font-size:14px!important}
+.recon-block .value{font-size:30px}.ok-badge{font-size:14px}
+.button::after,.faq summary::after,.recon-symbol{font-size:20px}
+.hero h1 span{display:inline-block}
+.hero .tagline{max-width:none}.steps h3{max-width:none}
+@media(max-width:760px){.hero h1 span{display:block;margin:8px 0 0}.steps>div{grid-template-columns:1fr}.steps .step-label{grid-row:auto}.steps p:not(.step-label){grid-column:auto}.header{gap:8px}.nav .button{padding:8px 12px}.hero .intro{max-width:650px}}

diff --git a/index.html b/index.html
@@ -56,9 +56,9 @@
 <p class="eyebrow">ASC 740 Automation + Custom Built</p>
 <h1>Polly <span>by Polaris</span></h1>
 <p class="tagline">A tax provision. <em>Not a fire drill.</em></p>
-<p class="intro">Tax provision automation for in-house teams and CPA firms. Turn approved inputs into formula-linked Excel workpapers, with less manual preparation and more time for review.</p>
+<p class="intro">Tax provision automation for in-house teams and CPA firms. Less manual preparation. More time for review.</p>
 <div class="actions"><a class="button" href="#polly">Explore Polly</a><a class="button secondary" href="https://calendly.com/ehaakenson-polaristaxai/30min" target="_blank" rel="noopener noreferrer">Let's talk</a></div>
-<p class="sub">Multi-entity calculations in minutes once inputs and mappings are ready.</p><figure class="hero-product"><picture><source media="(max-width: 600px)" srcset="assets/workpaper-mobile.png" width="600" height="240"><img src="assets/workpaper-preview.png" width="1200" height="290" alt="Sample current-tax summary: U.S. $4,496,972 plus foreign $2,168,053 equals $6,665,025; the supporting schedule agrees with a zero difference and OK status."></picture><figcaption>Sample workbook values &middot; Recalculated in Excel</figcaption></figure>
+<p class="sub">Multi-entity calculations in minutes once inputs and mappings are ready.</p><figure class="hero-product"><picture><source media="(max-width: 600px)" srcset="assets/workpaper-mobile.png" width="600" height="240"><img src="assets/workpaper-preview.png" width="1200" height="260" alt="Sample current-tax summary: U.S. $4,496,972 plus foreign $2,168,053 equals $6,665,025; the supporting schedule agrees with a zero difference and OK status."></picture><figcaption>Sample workbook values &middot; Recalculated in Excel</figcaption></figure>
 </section>
 <section class="benefits" aria-label="Benefits"><div class="wrap benefit-grid">
 <div><h2>Less preparation cost</h2><p>Reduce repetitive calculation and schedule updates so experienced staff spend less time on routine preparation.</p></div>
@@ -90,7 +90,7 @@
 <div class="columns"><article class="audience"><h3>In-house tax leaders</h3><p>Late trial-balance changes can leave a small team updating schedules when it needs to be reviewing results.</p><ul><li>Get the provision ready for review sooner to support a timely financial close.</li><li>Leave more time to investigate changes and explain the tax results to finance leadership.</li><li>Make better use of your existing team's capacity.</li><li>Support staff retention by reducing repetitive work and easing pressure on experienced tax professionals.</li></ul><p class="fine" style="margin-top:20px">For U.S. companies with foreign branches or subsidiaries, and U.S. subsidiaries of foreign parents.</p></article>
 <article class="audience"><h3>Regional CPA firms</h3><p>Experienced provision staff juggle multiple engagements. Routine preparation can become a bottleneck to delivery and growth.</p><ul><li>Protect engagement margins by reducing repetitive preparation and rework.</li><li>Create capacity for additional client engagements.</li><li>Give reviewers traceable calculations and supporting schedules in Excel.</li><li>Support staff retention by reducing repetitive work and easing pressure on experienced tax professionals.</li></ul><p class="fine" style="margin-top:20px">For firms preparing corporate tax provisions for multinational clients.</p></article></div></section>
 <section class="band" id="offerings"><div class="wrap section"><div class="section-head"><p class="eyebrow">How we can help</p><h2>A standard product. Room for your specific needs.</h2></div><div class="offerings">
-<article class="offering"><div class="offer-title"><p class="eyebrow">Tax provision</p><h3>Polly Standard</h3></div><div class="offer-body"><p>The standard calculation workflow, formula-linked Excel workpapers and validation checks, with mapping setup and onboarding defined in the agreed scope.</p><h4 style="margin:0;font-size:15px">Included U.S. international and state calculations</h4><ul class="included-list"><li>NCTI and its related foreign tax credit</li><li>Foreign branch calculations</li><li>Section 78 gross-up</li><li>Section 250 deduction</li><li>Section 163(j) limitation</li><li>California combined reporting</li></ul><p class="fine">Included in Polly Standard, subject to confirming your entities, tax period and applicable scenarios. California net operating losses and credits are not included.</p><a href="#pilot">Discuss a guided pilot &rarr;</a></div></article>
+<article class="offering"><div class="offer-title"><p class="eyebrow">Tax provision</p><h3>Polly Standard</h3></div><div class="offer-body"><p>The standard calculation workflow, formula-linked Excel workpapers and validation checks, with mapping setup and onboarding defined in the agreed scope.</p><h4 style="margin:0">Included U.S. international and state calculations</h4><ul class="included-list"><li>NCTI and its related foreign tax credit</li><li>Foreign branch calculations</li><li>Section 78 gross-up</li><li>Section 250 deduction</li><li>Section 163(j) limitation</li><li>California combined reporting</li></ul><p class="fine">Included in Polly Standard, subject to confirming your entities, tax period and applicable scenarios. California net operating losses and credits are not included.</p><a href="#pilot">Discuss a guided pilot &rarr;</a></div></article>
 <article class="offering"><div class="offer-title"><p class="eyebrow">Product + enhancements</p><h3>Polly + Customization</h3></div><div class="offer-body"><p>Need calculations or workflows beyond the standard scope? We'll discuss your requirements and confirm feasibility, scope and pricing separately.</p><p>Custom development is quoted separately, with ongoing maintenance fees defined in the proposal.</p><a href="#contact">Discuss your requirements &rarr;</a></div></article>
 <article class="offering"><div class="offer-title"><p class="eyebrow">Other tax workflows</p><h3>Custom Tax Automation</h3></div><div class="offer-body"><p>Tailored automation for other tax workflows. Project scope, development fees and ongoing maintenance fees are agreed before work begins.</p><a href="#contact">Tell us about the process &rarr;</a></div></article>
 </div></div></section>
